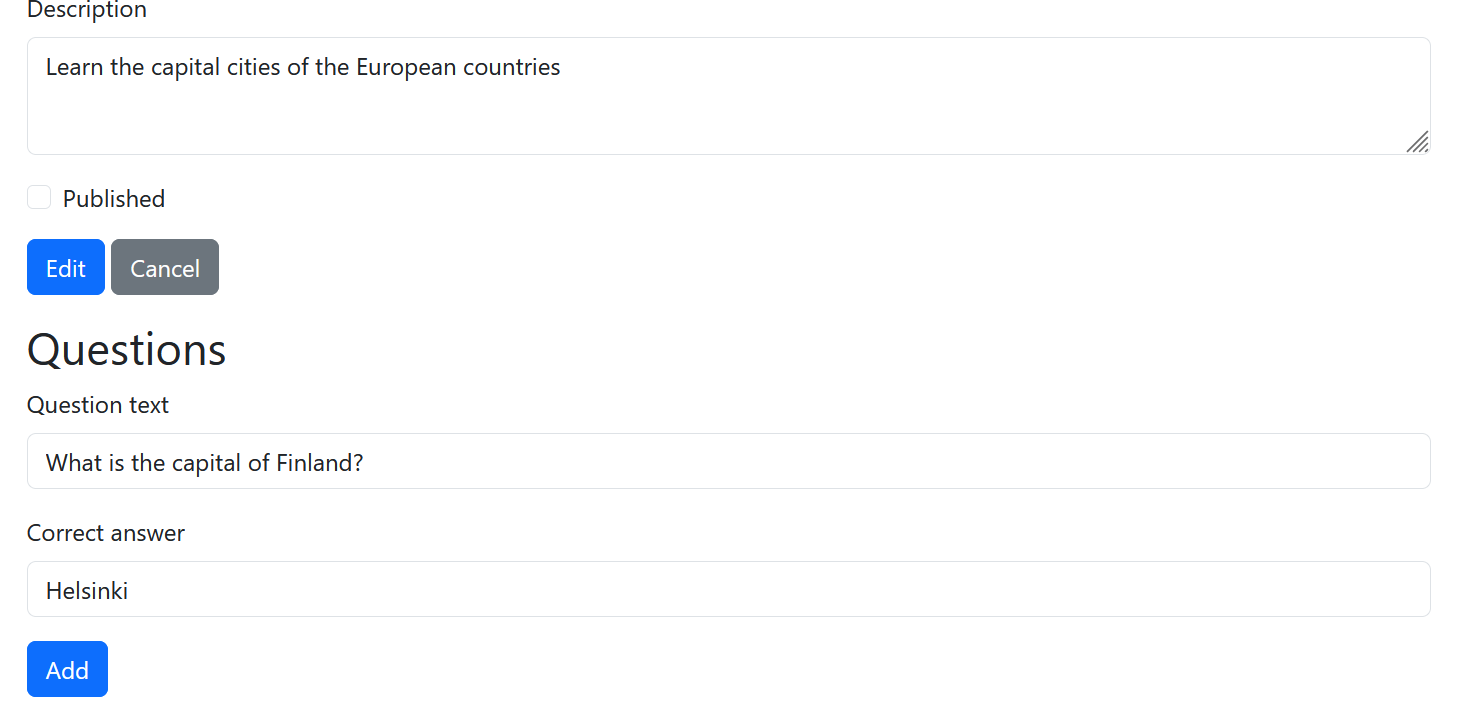
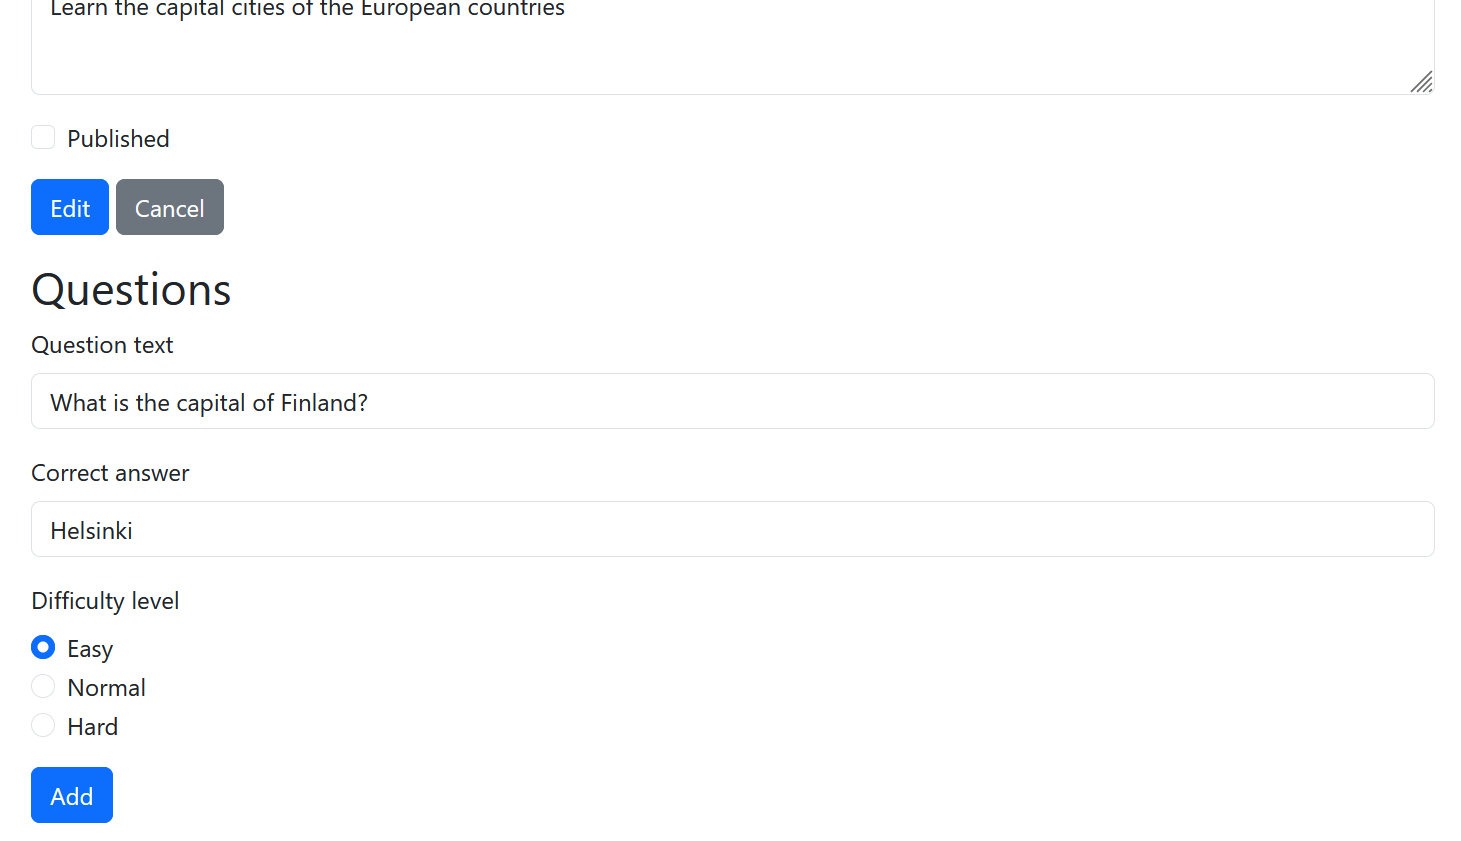
user story previews

diff --git a/user-story-previews/sprint-2-2.html b/user-story-previews/sprint-2-2.html
@@ -28,12 +28,18 @@
       <form>
         <div class="mb-3">
           <label class="form-label">Name</label>
-          <input type="text" class="form-control" value="The capital cities of Europe" />
+          <input
+            type="text"
+            class="form-control"
+            value="The capital cities of Europe"
+          />
         </div>
 
         <div class="mb-3">
           <label class="form-label">Description</label>
-          <textarea class="form-control">Learn the capital cities of the European countries</textarea>
+          <textarea class="form-control">
+Learn the capital cities of the European countries</textarea
+          >
         </div>
 
         <div class="mb-3">
@@ -44,9 +50,7 @@
               value=""
               id="published"
             />
-            <label class="form-check-label" for="published">
-              Published
-            </label>
+            <label class="form-check-label" for="published"> Published </label>
           </div>
         </div>
 
@@ -57,12 +61,57 @@
       <form>
         <div class="mb-3">
           <label class="form-label">Question text</label>
-          <input type="text" class="form-control" value="What is the capital of Finland?" />
+          <input
+            type="text"
+            class="form-control"
+            value="What is the capital of Finland?"
+          />
         </div>
 
         <div class="mb-3">
           <label class="form-label">Correct answer</label>
           <input type="text" class="form-control" value="Helsinki" />
+        </div>
+
+        <div class="mb-3">
+          <label class="form-label">Difficulty level</label>
+
+          <div class="form-check">
+            <input
+              class="form-check-input"
+              type="radio"
+              name="flexRadioDefault"
+              id="flexRadioDefault1"
+              checked
+            />
+            <label class="form-check-label" for="flexRadioDefault1">
+              Easy
+            </label>
+          </div>
+
+          <div class="form-check">
+            <input
+              class="form-check-input"
+              type="radio"
+              name="flexRadioDefault"
+              id="flexRadioDefault1"
+            />
+            <label class="form-check-label" for="flexRadioDefault1">
+              Normal
+            </label>
+          </div>
+
+          <div class="form-check">
+            <input
+              class="form-check-input"
+              type="radio"
+              name="flexRadioDefault"
+              id="flexRadioDefault1"
+            />
+            <label class="form-check-label" for="flexRadioDefault1">
+              Hard
+            </label>
+          </div>
         </div>
 
         <button class="btn btn-primary">Add</button>

diff --git a/user-story-previews/sprint-2-4.html b/user-story-previews/sprint-2-4.html
@@ -63,6 +63,7 @@ Learn the capital cities of the European countries</textarea
           <tr>
             <th>Question text</th>
             <th>Correct answer</th>
+            <th>Difficulty level</th>
             <th></th>
           </tr>
         </thead>
@@ -70,6 +71,8 @@ Learn the capital cities of the European countries</textarea
           <tr>
             <td>What is the capital of Finland?</td>
             <td>Helsinki</td>
+            <th><span class="badge text-bg-secondary">Easy</span></th>
+
             <td>
               <button class="btn btn-danger btn-sm">Delete</button>
             </td>
@@ -77,6 +80,7 @@ Learn the capital cities of the European countries</textarea
           <tr>
             <td>What is the capital of Sweden?</td>
             <td>Stockholm</td>
+            <th><span class="badge text-bg-secondary">Hard</span></th>
             <td>
               <button class="btn btn-danger btn-sm">Delete</button>
             </td>
@@ -92,6 +96,46 @@ Learn the capital cities of the European countries</textarea
         <div class="mb-3">
           <label class="form-label">Correct answer</label>
           <input type="text" class="form-control" />
+        </div>
+
+        <div class="mb-3">
+          <label class="form-label">Difficulty level</label>
+
+          <div class="form-check">
+            <input
+              class="form-check-input"
+              type="radio"
+              name="flexRadioDefault"
+              id="flexRadioDefault1"
+            />
+            <label class="form-check-label" for="flexRadioDefault1">
+              Easy
+            </label>
+          </div>
+
+          <div class="form-check">
+            <input
+              class="form-check-input"
+              type="radio"
+              name="flexRadioDefault"
+              id="flexRadioDefault1"
+            />
+            <label class="form-check-label" for="flexRadioDefault1">
+              Normal
+            </label>
+          </div>
+
+          <div class="form-check">
+            <input
+              class="form-check-input"
+              type="radio"
+              name="flexRadioDefault"
+              id="flexRadioDefault1"
+            />
+            <label class="form-check-label" for="flexRadioDefault1">
+              Hard
+            </label>
+          </div>
         </div>
 
         <button class="btn btn-primary">Add</button>

diff --git a/user-story-previews/sprint-2-3.html b/user-story-previews/sprint-2-3.html
@@ -63,16 +63,19 @@ Learn the capital cities of the European countries</textarea
           <tr>
             <th>Question text</th>
             <th>Correct answer</th>
+            <th>Difficulty level</th>
           </tr>
         </thead>
         <tbody>
           <tr>
             <td>What is the capital of Finland?</td>
             <td>Helsinki</td>
+            <th><span class="badge text-bg-secondary">Easy</span></th>
           </tr>
           <tr>
             <td>What is the capital of Sweden?</td>
             <td>Stockholm</td>
+            <th><span class="badge text-bg-secondary">Hard</span></th>
           </tr>
         </tbody>
       </table>
@@ -85,6 +88,46 @@ Learn the capital cities of the European countries</textarea
         <div class="mb-3">
           <label class="form-label">Correct answer</label>
           <input type="text" class="form-control" />
+        </div>
+
+        <div class="mb-3">
+          <label class="form-label">Difficulty level</label>
+
+          <div class="form-check">
+            <input
+              class="form-check-input"
+              type="radio"
+              name="flexRadioDefault"
+              id="flexRadioDefault1"
+            />
+            <label class="form-check-label" for="flexRadioDefault1">
+              Easy
+            </label>
+          </div>
+
+          <div class="form-check">
+            <input
+              class="form-check-input"
+              type="radio"
+              name="flexRadioDefault"
+              id="flexRadioDefault1"
+            />
+            <label class="form-check-label" for="flexRadioDefault1">
+              Normal
+            </label>
+          </div>
+
+          <div class="form-check">
+            <input
+              class="form-check-input"
+              type="radio"
+              name="flexRadioDefault"
+              id="flexRadioDefault1"
+            />
+            <label class="form-check-label" for="flexRadioDefault1">
+              Hard
+            </label>
+          </div>
         </div>
 
         <button class="btn btn-primary">Add</button>

diff --git a/material/sprint-2.md b/material/sprint-2.md
@@ -134,7 +134,7 @@ The Sprint Review gave the Product Owner many new ideas on how to improve the ap
 >
 > Let's start with a small user-experience improvement. It would nice, if the quizzes on the quiz list were listed from newest to oldest. This way, the teacher can find the latest quizzes quickly at the top of the list.
 >
-> The teacher should be able to add questions for the quizzes. For example the "The capital cities of Europe" quiz could have a question "What is the capital of Finland?". A question has a question text, for example "What is the capital of Finland?" and a correct answer, for example "Helsinki". A question could be added using the quiz edit form implemented during the previous Sprint. The quiz-related questions should be listed and below the list there should be a form for adding a question. The teacher should not be able to add a question with a blank text or correct answer. Once a question has been added for the quiz, the teacher should be able to delete it. The question list should have a "Delete" button next to each question.
+> The teacher should be able to add questions for the quizzes. For example the "The capital cities of Europe" quiz could have a question "What is the capital of Finland?". A question has a question text, for example "What is the capital of Finland?", a correct answer, for example "Helsinki" and a difficulty level. The difficulty level is either "Easy", "Normal" or "Hard". The default difficulty level is "Normal". A question could be added using the quiz edit form implemented during the previous Sprint. The quiz-related questions should be listed and below the list there should be a form for adding a question. The teacher should not be able to add a question with a blank question text or correct answer, or without a difficulty level. Once a question has been added for the quiz, the teacher should be able to delete it. The question list should have a "Delete" button next to each question.
 >
 > Once we have this basic set of features for the teachers, we can start working on the student dashboard application. The student dashboard should have a page that lists the published quizzes with the quiz name, description and the date when it was added. These quizzes should be listed from newest to oldest. Each quiz name should be a link to a separate page where the quiz name, description and the questions are displayed.
 >
@@ -711,7 +711,7 @@ The remaining user stories include both backend-related and frontend-related tas
 >
 > Tips for the tasks:
 >
-> - Feedback notification can be implemented with Material UI [Snackbar](https://mui.com/material-ui/react-snackbar/) or with a library such as [notistack](https://notistack.com/)
+> - The feedback notification can be implemented for example with the Material UI [Snackbar](https://mui.com/material-ui/react-snackbar/) component or with a library such as [notistack](https://notistack.com/)
 
 {: .important-title }
 
